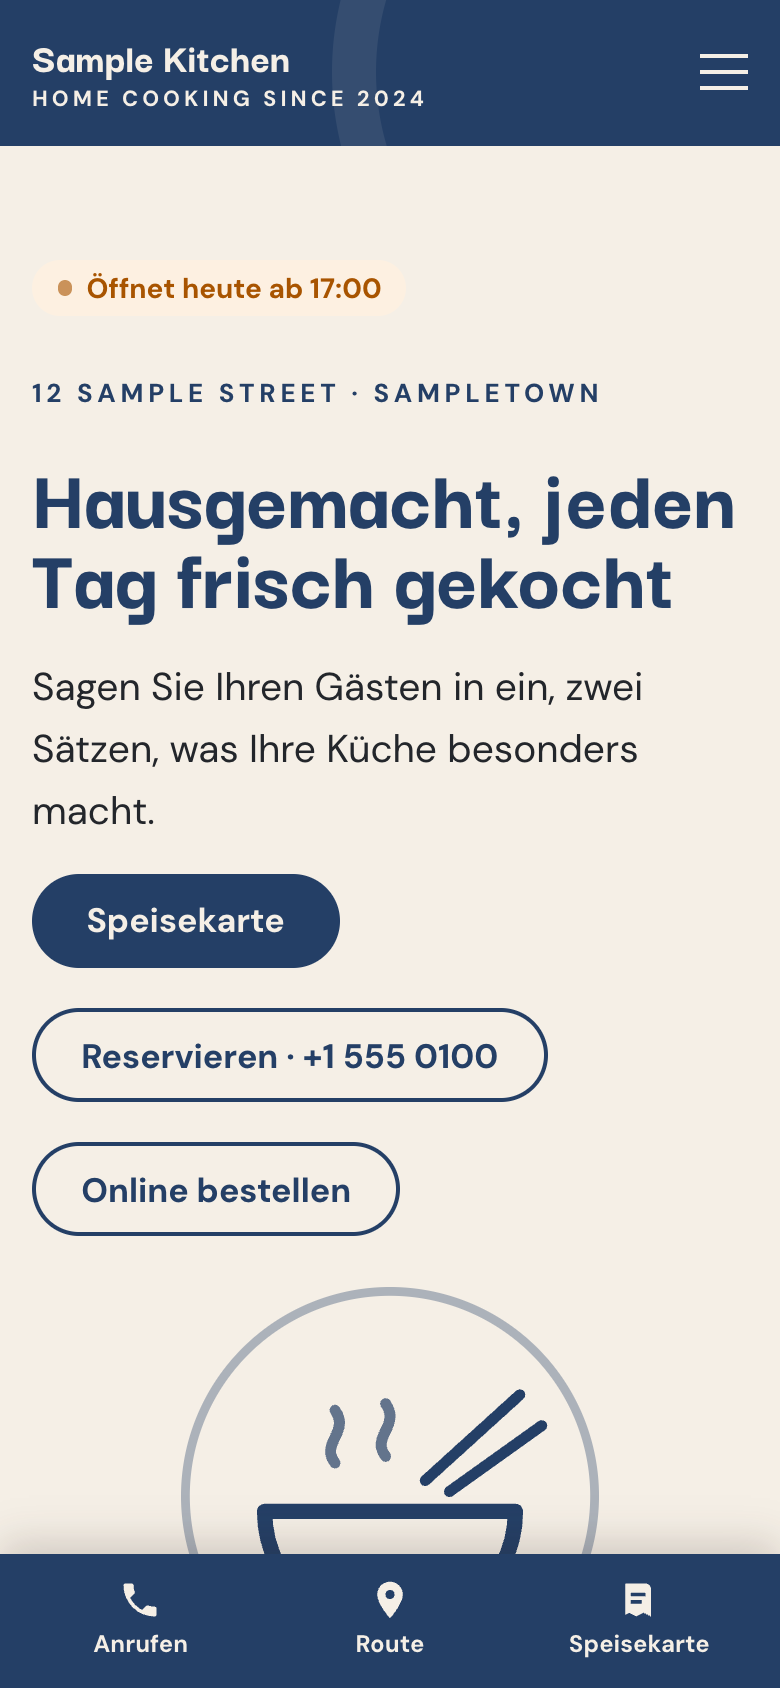
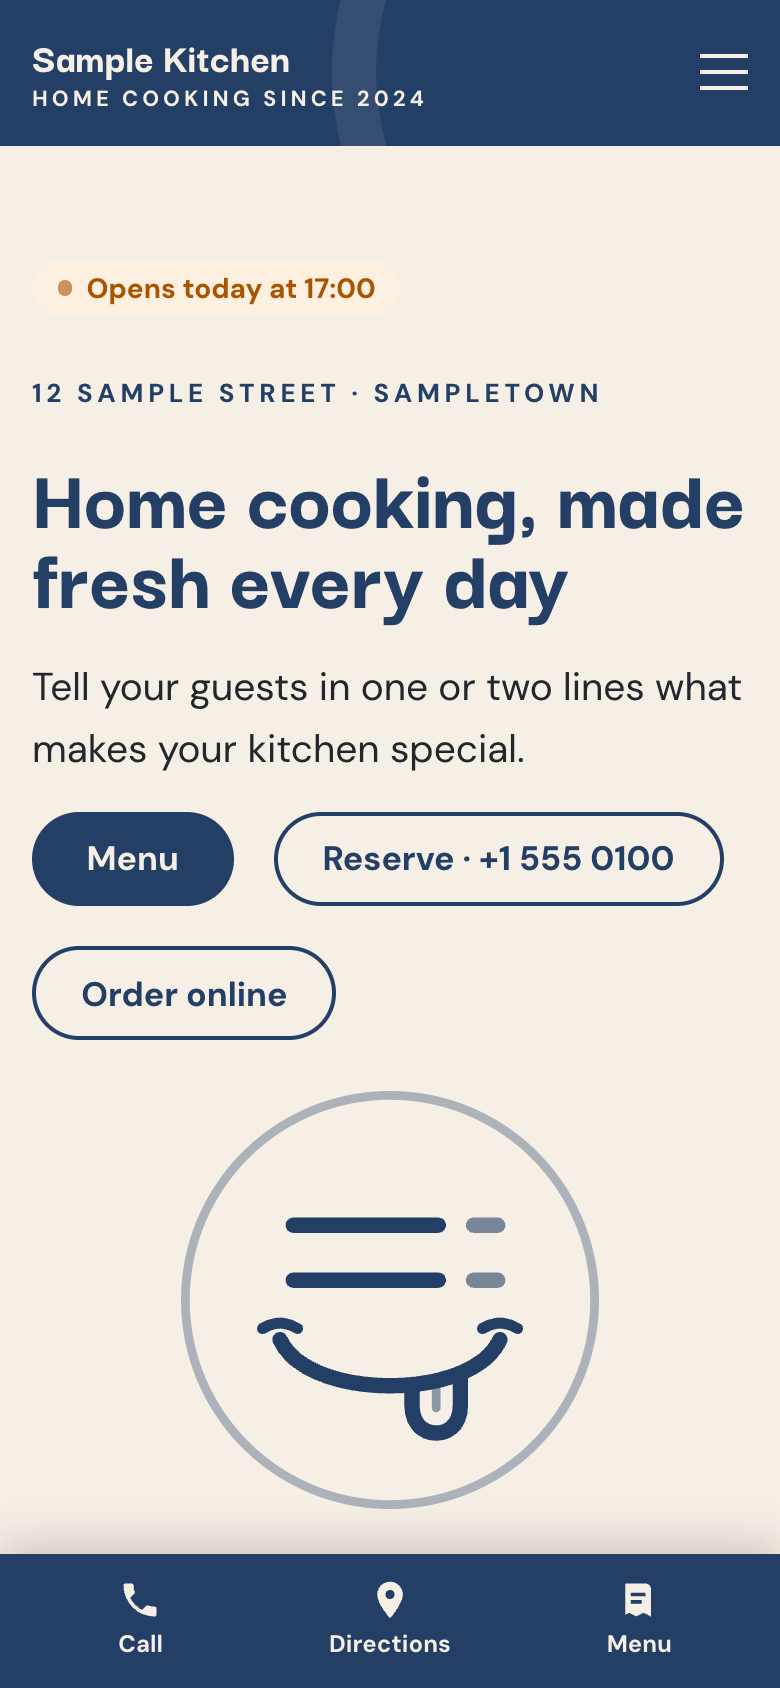
MenuDash Theme 1.6.0: the smile instead of the bowl
The drawing beside the home page headline, above "Visit us" and on dishes
without a photo is now MenuDash's mark (two menu lines over a smile with a
licking tongue), as a line drawing in the site's primary colour. Class
names stay the same, so pages made with earlier versions keep working.
Hero pattern description and its translations updated; screenshots retaken.

diff --git a/menudash-theme/style.css b/menudash-theme/style.css
@@ -2,7 +2,7 @@
 Theme Name: MenuDash Theme
 Theme URI: https://github.com/yingshiuan/menudash-theme
 Description: A restaurant website theme made for the MenuDash plugin: the menu, today's specials, opening hours, holidays, gift cards and your restaurant's details come from MenuDash, and the theme shows them in a warm, simple design. Home page sections, header and footer are edited in Appearance → Editor; colours and fonts under Styles. English and German included.
-Version: 1.5.0
+Version: 1.6.0
 Requires at least: 6.5
 Tested up to: 6.8
 Requires PHP: 7.4
@@ -263,11 +263,12 @@ h1, h2 { overflow-wrap: break-word; text-wrap: balance; }
 
 .mdt-delivery .mdt-table td:first-child { font-weight: 400; }
 
-/* ---- The bowl drawing beside the welcome, in the site's primary colour ---- */
-.mdt-hero-bowl { aspect-ratio: 1; width: 100%; max-width: 380px; margin: 0 auto; background: var(--wp--preset--color--primary); -webkit-mask: url(assets/img/bowl.svg) center / contain no-repeat; mask: url(assets/img/bowl.svg) center / contain no-repeat; }
+/* ---- The smile drawing (MenuDash's mark) beside the welcome, in the site's primary colour.
+   The classes keep their old "bowl" names, which pages made with earlier versions use. ---- */
+.mdt-hero-bowl { aspect-ratio: 1; width: 100%; max-width: 380px; margin: 0 auto; background: var(--wp--preset--color--primary); -webkit-mask: url(assets/img/smile.svg) center / contain no-repeat; mask: url(assets/img/smile.svg) center / contain no-repeat; }
 @media (max-width: 781px) { .mdt-hero-bowl { max-width: 220px; } }
-/* The small bowl above "Visit us". */
-.mdt-visit-bowl { width: 96px; aspect-ratio: 1; background: var(--wp--preset--color--primary); -webkit-mask: url(assets/img/bowl.svg) center / contain no-repeat; mask: url(assets/img/bowl.svg) center / contain no-repeat; }
+/* The small smile above "Visit us". */
+.mdt-visit-bowl { width: 96px; aspect-ratio: 1; background: var(--wp--preset--color--primary); -webkit-mask: url(assets/img/smile.svg) center / contain no-repeat; mask: url(assets/img/smile.svg) center / contain no-repeat; }
 
 /* ---- Recommended dishes from MenuDash: a grid of round photos with number and name ---- */
 .mdt-picks-grid { display: flex; flex-wrap: wrap; justify-content: center; gap: var(--wp--preset--spacing--40); max-width: var(--wp--style--global--wide-size); margin: var(--wp--preset--spacing--40) auto 0; }
@@ -276,7 +277,7 @@ h1, h2 { overflow-wrap: break-word; text-wrap: balance; }
 .mdt-pick figure { width: 100%; max-width: 170px; margin: 0 0 .6rem; }
 .mdt-pick img { display: block; width: 100%; height: auto; }
 .mdt-dish-none { aspect-ratio: 1; border-radius: 50%; background: var(--wp--preset--color--white); box-shadow: inset 0 0 0 2px rgba(43, 29, 26, .08); display: grid; place-items: center; }
-.mdt-dish-none span { width: 55%; aspect-ratio: 1; background: var(--wp--preset--color--primary); opacity: .35; -webkit-mask: url(assets/img/bowl.svg) center / contain no-repeat; mask: url(assets/img/bowl.svg) center / contain no-repeat; }
+.mdt-dish-none span { width: 55%; aspect-ratio: 1; background: var(--wp--preset--color--primary); opacity: .35; -webkit-mask: url(assets/img/smile.svg) center / contain no-repeat; mask: url(assets/img/smile.svg) center / contain no-repeat; }
 @media (max-width: 600px) { .mdt-pick { width: calc(50% - var(--wp--preset--spacing--40)); } }
 .mdt-pick .mdt-zh { font-size: .9375rem; }
 

diff --git a/menudash-theme/patterns/hero.php b/menudash-theme/patterns/hero.php
@@ -3,7 +3,7 @@
  * Title: Home: welcome
  * Slug: menudash-theme/hero
  * Categories: menudash-theme
- * Description: The restaurant's name line, a big headline, the "open now" badge and the buttons (menu, reserve, order online; each can be deleted or changed, reserve and order take their links from MenuDash → Restaurant), with a bowl drawing beside it.
+ * Description: The restaurant's name line, a big headline, the "open now" badge and the buttons (menu, reserve, order online; each can be deleted or changed, reserve and order take their links from MenuDash → Restaurant), with a smiling drawing beside it.
  */
 ?>
 <!-- wp:group {"align":"full","style":{"spacing":{"padding":{"top":"var:preset|spacing|60","bottom":"var:preset|spacing|60"}}},"layout":{"type":"constrained"}} -->

diff --git a/menudash-theme/inc/blocks.php b/menudash-theme/inc/blocks.php
@@ -445,7 +445,7 @@ function mdt_block_picks() {
 		list( $d, $photo, $name ) = $it;
 		$second = ! empty( $d['name']['zh'] ) ? $d['name']['zh'] : '';
 		$html  .= '<a class="mdt-pick" href="' . esc_url( $url ) . '">';
-		if ( ! $photo ) { // No photo yet: a plate with the bowl drawing, so the row stays even.
+		if ( ! $photo ) { // No photo yet: a plate with the smile drawing, so the row stays even.
 			$html .= '<figure class="mdt-dish mdt-dish-none" aria-hidden="true"><span></span></figure>';
 		} else {
 			$html .= '<figure class="mdt-dish' . ( $photo['alpha'] ? '' : ' mdt-dish-round' ) . '"><img src="' . esc_url( mdash_photo_url( $photo, 400 ) ) . '" alt="' . esc_attr( $name ) . '" width="400" height="400" loading="lazy"></figure>';
